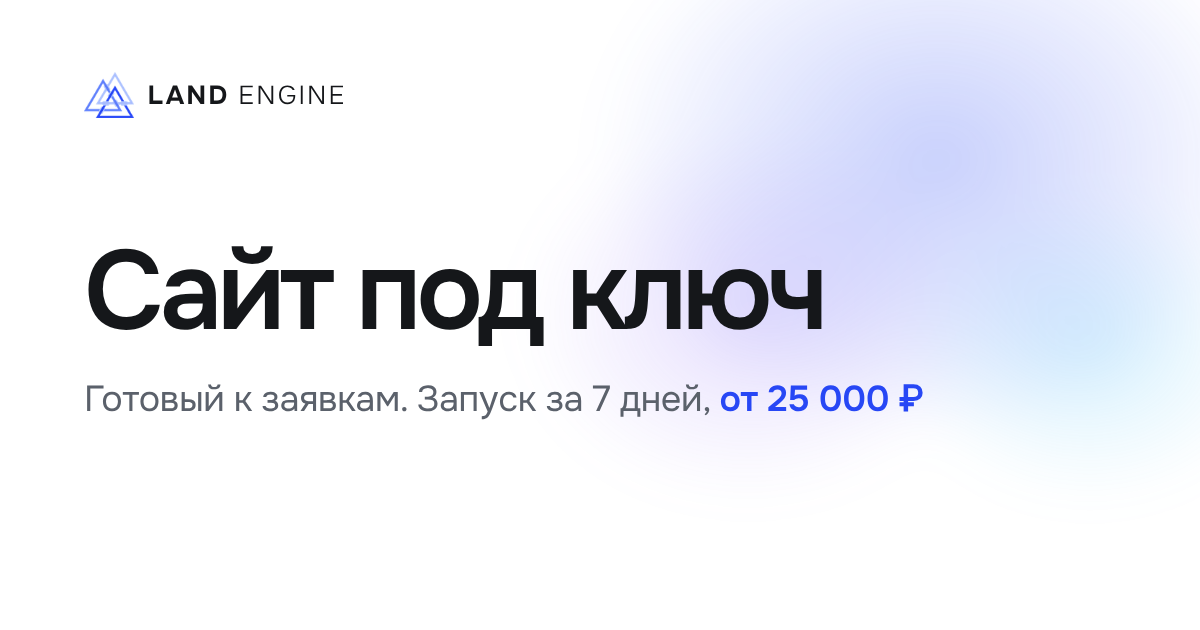
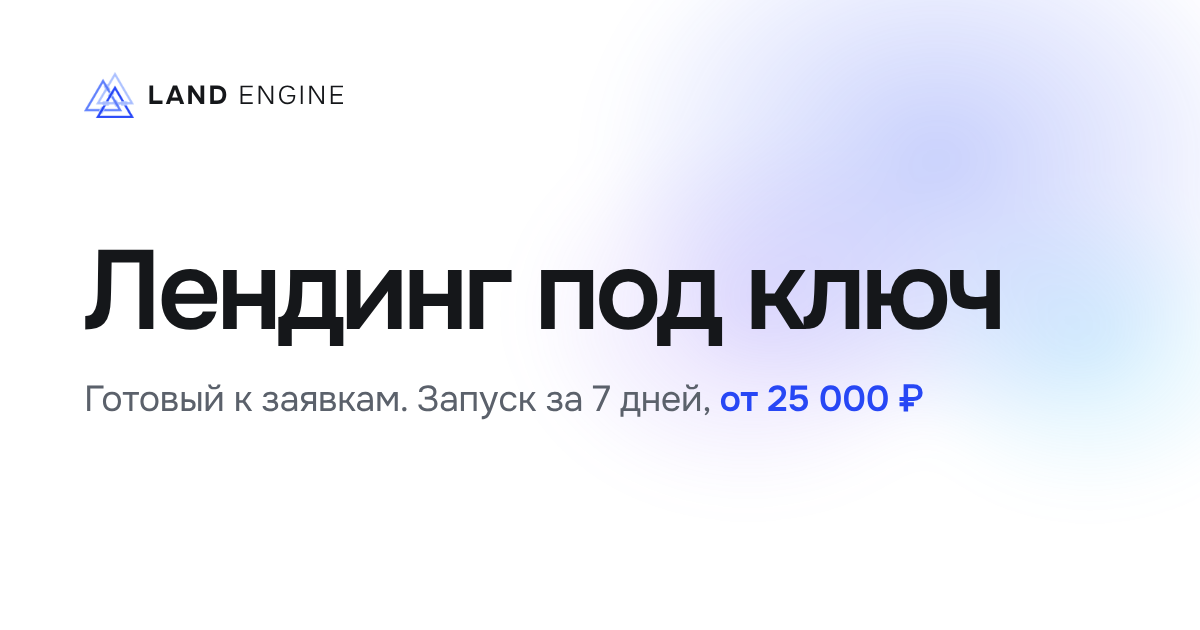
H1 «Лендинг под ключ», новый вводный текст про автотаргетинг; заголовок страницы и превью ссылки
Claude-Session: https://claude.ai/code/session_01MMcePDLEDVtnmG1z1Y2VJ5

Changed region(s): [[0.0617, 0.3921, 0.8325, 0.5429]]

diff --git a/index.html b/index.html
@@ -3,9 +3,9 @@
 <head>
   <meta charset="utf-8">
   <meta name="viewport" content="width=device-width, initial-scale=1">
-  <title>Сайт под ключ, готовый к заявкам: запуск за 7 дней, от 25 000 ₽ — Land Engine</title>
+  <title>Лендинг под ключ, готовый к заявкам: запуск за 7 дней, от 25 000 ₽ — Land Engine</title>
   <meta name="description" content="Сайт под ключ: лендинги, сайты и квизы для любых услуг и товаров. Запуск за 7 дней, от 25 000 ₽. Структура, тексты, дизайн и запуск. Отдельно: администрирование и сопровождение сайта, реклама в Яндекс Директ, Авито и ВКонтакте.">
-  <meta property="og:title" content="Сайт под ключ, готовый к заявкам: запуск за 7 дней, от 25 000 ₽">
+  <meta property="og:title" content="Лендинг под ключ, готовый к заявкам: запуск за 7 дней, от 25 000 ₽">
   <meta property="og:description" content="Лендинги, сайты и квизы под ключ: от структуры и текстов до запуска.">
   <meta property="og:type" content="website">
   <meta property="og:image" content="https://intelligence444-web.github.io/onerepozit163/assets/og-image.png">
@@ -16,7 +16,7 @@
   <link rel="apple-touch-icon" href="assets/apple-touch-icon.png">
   <link rel="preload" href="assets/fonts/onest-cyrillic.woff2" as="font" type="font/woff2" crossorigin>
   <link rel="preload" href="assets/fonts/onest-latin.woff2" as="font" type="font/woff2" crossorigin>
-  <link rel="stylesheet" href="styles.css?v=20">
+  <link rel="stylesheet" href="styles.css?v=21">
   <script>document.documentElement.classList.add("js")</script>
 </head>
 <body>
@@ -46,9 +46,9 @@
   <section class="hero aurora">
     <div class="wrap hero-grid">
       <div class="hero-copy">
-        <h1>Сайт под&nbsp;ключ</h1>
+        <h1>Лендинг под&nbsp;ключ</h1>
         <p class="h1-sub"><span>Готовый к&nbsp;заявкам.</span> <span>Запуск за&nbsp;7&nbsp;дней, от&nbsp;25&nbsp;000&nbsp;₽</span></p>
-        <p class="lead">Делаем лендинги, сайты и&nbsp;квизы под&nbsp;ключ для&nbsp;любых услуг и&nbsp;товаров. Продумываем структуру, пишем тексты, собираем дизайн и&nbsp;запускаем сайт на&nbsp;домене.</p>
+        <p class="lead">Делаем лендинги, сайты и&nbsp;квизы под&nbsp;ключ для&nbsp;любых услуг и&nbsp;товаров. Продумываем структуру для&nbsp;правильной работы автотаргетинга в&nbsp;Яндекс Директ, пишем тексты, собираем дизайн и&nbsp;запускаем сайт на&nbsp;домене.</p>
         <div class="hero-actions">
           <a class="btn" href="#calc">Рассчитать стоимость</a>
           <a class="btn btn-ghost" href="https://t.me/your_username" target="_blank" rel="noopener">Написать в&nbsp;Telegram</a>
@@ -464,6 +464,6 @@
   </div>
 </footer>
 
-<script src="script.js?v=20"></script>
+<script src="script.js?v=21"></script>
 </body>
 </html>

diff --git a/styles.css b/styles.css
@@ -649,3 +649,6 @@ a { color: inherit; }
 
 /* Выделение текста в цветах сайта */
 ::selection { background: var(--accent-soft); color: var(--ink); }
+
+/* H1 в одну строку на узких экранах: шрифт по ширине экрана */
+@media (max-width: 640px) { .hero-copy h1 { font-size: min(2.8rem, calc((100vw - 2 * var(--gutter)) / 8.7)); } }
